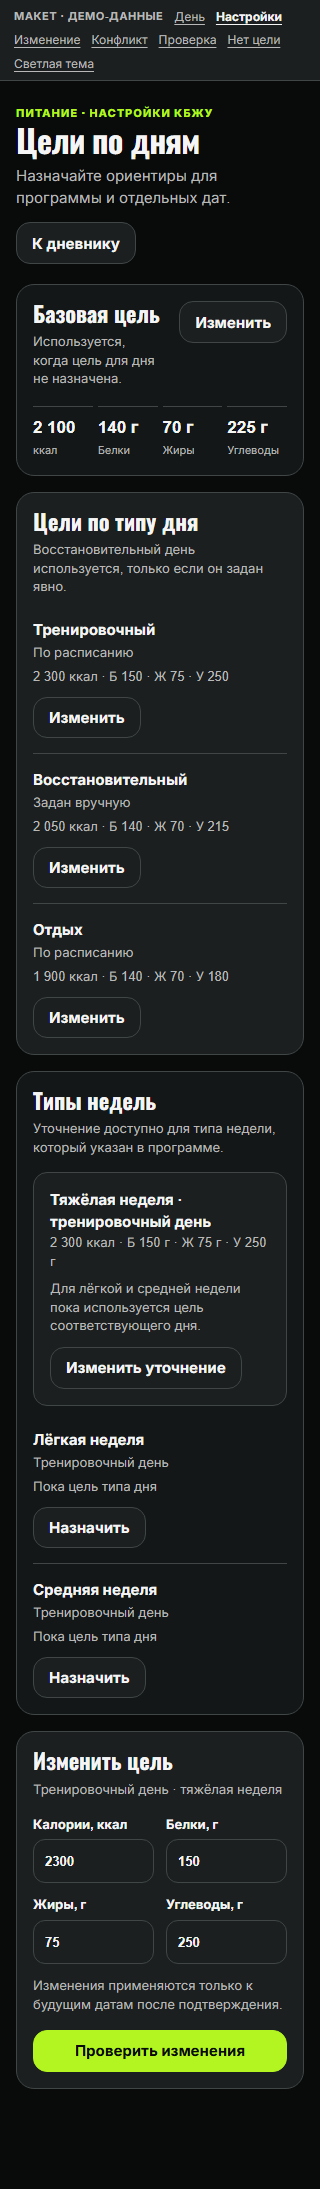
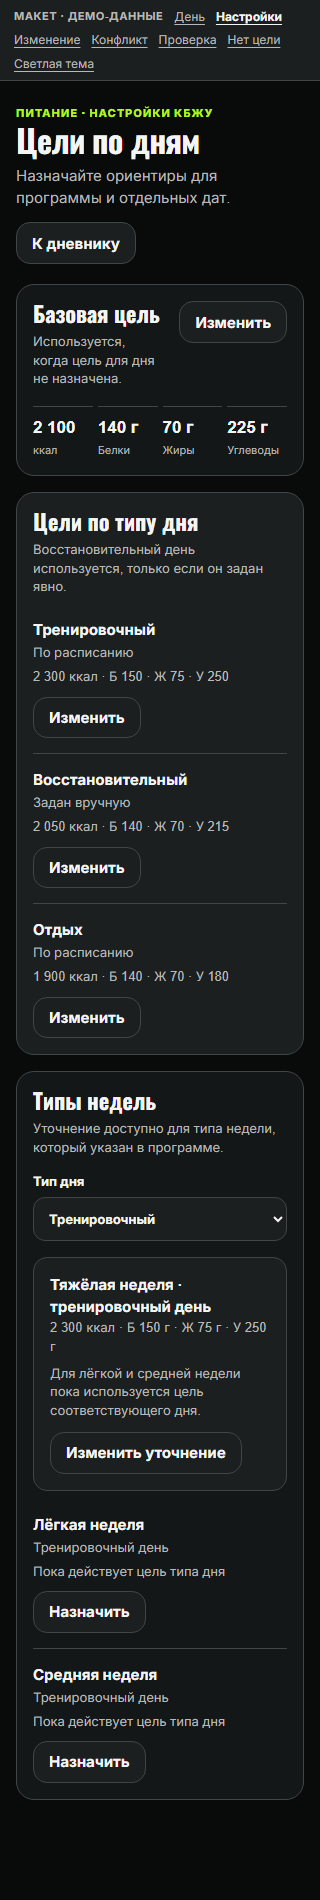
docs: complete day and week target mockup

diff --git a/docs/ux-proposals/issue-952/preview.html b/docs/ux-proposals/issue-952/preview.html
@@ -37,8 +37,8 @@ main{width:min(100%,1000px);padding:38px 44px 80px;margin:0 auto}.eyebrow{font-s
 <div class="stack">
 <div class="panel"><div class="panel-title"><div><h2>Базовая цель</h2><p class="hint">Используется, когда цель для дня не назначена.</p></div><a class="button" href="#editor" data-edit="base">Изменить</a></div><div class="metrics"><div class="metric"><strong>2 100</strong><span>ккал</span></div><div class="metric"><strong>140 г</strong><span>Белки</span></div><div class="metric"><strong>70 г</strong><span>Жиры</span></div><div class="metric"><strong>225 г</strong><span>Углеводы</span></div></div></div>
 <div class="panel white"><div class="panel-title"><div><h2>Цели по типу дня</h2><p class="hint">Восстановительный день используется, только если он задан явно.</p></div></div><div class="target-list"><div class="target-row"><div><strong>Тренировочный</strong><span class="hint">По расписанию</span></div><span class="values">2 300 ккал · Б 150 · Ж 75 · У 250</span><a class="button" href="#editor" data-edit="training">Изменить</a></div><div class="target-row"><div><strong>Восстановительный</strong><span class="hint">Задан вручную</span></div><span class="values">2 050 ккал · Б 140 · Ж 70 · У 215</span><a class="button" href="#editor" data-edit="recovery">Изменить</a></div><div class="target-row"><div><strong>Отдых</strong><span class="hint">По расписанию</span></div><span class="values">1 900 ккал · Б 140 · Ж 70 · У 180</span><a class="button" href="#editor" data-edit="rest">Изменить</a></div></div></div>
-<div class="panel"><div class="panel-title"><div><h2>Типы недель</h2><p class="hint">Уточнение доступно для типа недели, который указан в программе.</p></div></div><div class="details"><strong>Тяжёлая неделя · тренировочный день</strong><p class="hint">2 300 ккал · Б 150 г · Ж 75 г · У 250 г</p><p class="hint" style="margin-top:8px">Для лёгкой и средней недели пока используется цель соответствующего дня.</p><a class="button" href="#editor" data-edit="heavy" style="margin-top:12px">Изменить уточнение</a></div><div class="target-list"><div class="target-row"><div><strong>Лёгкая неделя</strong><span class="hint">Тренировочный день</span></div><span class="values">Пока цель типа дня</span><a class="button" href="#editor" data-edit="light">Назначить</a></div><div class="target-row"><div><strong>Средняя неделя</strong><span class="hint">Тренировочный день</span></div><span class="values">Пока цель типа дня</span><a class="button" href="#editor" data-edit="medium">Назначить</a></div></div></div>
-<div class="panel white" id="editor"><h2>Изменить цель</h2><p class="hint" id="edit-name" style="margin-top:6px">Тренировочный день · тяжёлая неделя</p><div class="form-grid"><label class="field">Калории, ккал<input id="edit-kcal" type="number" min="1" value="2300"></label><label class="field">Белки, г<input id="edit-protein" type="number" min="0" value="150"></label><label class="field">Жиры, г<input id="edit-fat" type="number" min="0" value="75"></label><label class="field">Углеводы, г<input id="edit-carbs" type="number" min="0" value="250"></label></div><p class="hint" style="margin-top:12px">Изменения применяются только к будущим датам после подтверждения.</p><div class="actions" style="margin-top:16px"><a class="button primary" id="edit-preview" href="?view=preview&amp;case=template">Проверить изменения</a></div></div>
+<div class="panel"><div class="panel-title"><div><h2>Типы недель</h2><p class="hint">Уточнение доступно для типа недели, который указан в программе.</p></div></div><label class="field" style="max-width:320px;margin-top:16px">Тип дня<select id="week-day"><option value="training">Тренировочный</option><option value="recovery">Восстановительный</option><option value="rest">Отдых</option></select></label><div class="details"><strong>Тяжёлая неделя · <span class="week-day-label">тренировочный день</span></strong><p class="hint" id="week-heavy-value">2 300 ккал · Б 150 г · Ж 75 г · У 250 г</p><p class="hint" style="margin-top:8px">Для лёгкой и средней недели пока используется цель соответствующего дня.</p><a class="button" href="#editor" data-edit="heavy" style="margin-top:12px">Изменить уточнение</a></div><div class="target-list"><div class="target-row"><div><strong>Лёгкая неделя</strong><span class="hint week-day-label">Тренировочный день</span></div><span class="values">Пока действует цель типа дня</span><a class="button" href="#editor" data-edit="light">Назначить</a></div><div class="target-row"><div><strong>Средняя неделя</strong><span class="hint week-day-label">Тренировочный день</span></div><span class="values">Пока действует цель типа дня</span><a class="button" href="#editor" data-edit="medium">Назначить</a></div></div></div>
+<div class="panel white" id="editor" hidden><h2>Изменить цель</h2><p class="hint" style="margin-top:6px">Редактируется: <span id="edit-name">Тренировочный день · тяжёлая неделя</span></p><div class="form-grid"><label class="field">Калории, ккал<input id="edit-kcal" type="number" min="1" value="2300"></label><label class="field">Белки, г<input id="edit-protein" type="number" min="0" value="150"></label><label class="field">Жиры, г<input id="edit-fat" type="number" min="0" value="75"></label><label class="field">Углеводы, г<input id="edit-carbs" type="number" min="0" value="250"></label></div><p class="hint" style="margin-top:12px">Изменения применяются только к будущим датам после подтверждения.</p><div class="actions" style="margin-top:16px"><a class="button primary" id="edit-preview" href="?view=preview&amp;case=template">Проверить изменения</a><a class="button" href="?view=settings">Отмена</a></div></div>
 </div></section>
 
 <section id="override" class="screen" aria-labelledby="override-title">
@@ -74,7 +74,17 @@ document.querySelectorAll('main a[href^="?view="]').forEach(link => link.href +=
 const themeLink = document.getElementById('theme'); const themeParams = new URLSearchParams(location.search); themeParams.set('theme', theme === 'dark' ? 'light' : 'dark'); themeLink.href = '?' + themeParams; themeLink.textContent = theme === 'dark' ? 'Светлая тема' : 'Тёмная тема';
 const editExamples = {base:['Базовая цель',2100,140,70,225],training:['Тренировочный день',2300,150,75,250],recovery:['Восстановительный день',2050,140,70,215],rest:['День отдыха',1900,140,70,180],heavy:['Тренировочный день · тяжёлая неделя',2300,150,75,250],light:['Тренировочный день · лёгкая неделя',2300,150,75,250],medium:['Тренировочный день · средняя неделя',2300,150,75,250]};
 let editKind = 'heavy';
-document.querySelectorAll('[data-edit]').forEach(link => link.addEventListener('click', () => { editKind = link.dataset.edit; const v = editExamples[editKind]; document.getElementById('edit-name').textContent = v[0]; ['kcal','protein','fat','carbs'].forEach((key,i) => document.getElementById('edit-'+key).value = v[i+1]); }));
+document.getElementById('week-day').addEventListener('change', event => {
+  const dayKey=event.target.value, day=editExamples[dayKey], lowercase=day[0].toLocaleLowerCase('ru-RU');
+  document.querySelectorAll('.week-day-label').forEach(el => el.textContent=lowercase);
+  document.getElementById('week-heavy-value').textContent = dayKey === 'training' ? '2 300 ккал · Б 150 г · Ж 75 г · У 250 г' : 'Пока действует цель типа дня';
+  document.querySelector('[data-edit=heavy]').textContent = dayKey === 'training' ? 'Изменить уточнение' : 'Назначить';
+  for (const [key, week] of [['heavy','тяжёлая'],['light','лёгкая'],['medium','средняя']]) editExamples[key]=[day[0]+' · '+week+' неделя',...day.slice(1)];
+});
+if (['training','recovery','rest'].includes(params.get('day'))) { const select=document.getElementById('week-day'); select.value=params.get('day'); select.dispatchEvent(new Event('change')); }
+function openEditor(kind) { editKind=kind; const v=editExamples[kind]; document.getElementById('editor').hidden=false; document.getElementById('edit-name').textContent=v[0]; ['kcal','protein','fat','carbs'].forEach((key,i) => document.getElementById('edit-'+key).value=v[i+1]); }
+document.querySelectorAll('[data-edit]').forEach(link => link.addEventListener('click', () => openEditor(link.dataset.edit)));
+if (params.get('edit') && Object.hasOwn(editExamples,params.get('edit'))) openEditor(params.get('edit'));
 const sourceValues = {'Тренировочный':['2 300',150,75,250],'Восстановительный':['2 050',140,70,215],'Отдых':['1 900',140,70,180]};
 document.getElementById('override-type').addEventListener('change', event => { const v=sourceValues[event.target.value]; document.getElementById('override-source').textContent = 'Ориентир для типа дня: ' + v[0] + ' ккал · Б ' + v[1] + ' · Ж ' + v[2] + ' · У ' + v[3] + '.'; });
 function values(prefix) { return ['kcal','protein','fat','carbs'].map(key => document.getElementById(prefix+'-'+key).value.replace(/[^0-9]/g,'').slice(0,5)); }

diff --git a/docs/ux-proposals/issue-952/README.md b/docs/ux-proposals/issue-952/README.md
@@ -14,6 +14,10 @@
 | --- | --- | --- | --- | --- |
 | Цель на дату | [полный](evidence/chromium-390x844-dark-day.png) · [экран](evidence/chromium-390x844-dark-day-viewport.png) | [полный](evidence/chromium-390x844-light-day.png) · [экран](evidence/chromium-390x844-light-day-viewport.png) | [1280×900](evidence/chromium-1280x900-dark-day.png) | [1280×900](evidence/chromium-1280x900-light-day.png) |
 | Базовая цель, типы дней и недель | [полный](evidence/chromium-390x844-dark-settings.png) · [экран](evidence/chromium-390x844-dark-settings-viewport.png) | [полный](evidence/chromium-390x844-light-settings.png) · [экран](evidence/chromium-390x844-light-settings-viewport.png) | [1280×900](evidence/chromium-1280x900-dark-settings.png) | [1280×900](evidence/chromium-1280x900-light-settings.png) |
+| Тип недели: восстановительный день | [полный](evidence/chromium-390x844-dark-settings-recovery.png) · [экран](evidence/chromium-390x844-dark-settings-recovery-viewport.png) | [полный](evidence/chromium-390x844-light-settings-recovery.png) · [экран](evidence/chromium-390x844-light-settings-recovery-viewport.png) | [1280×900](evidence/chromium-1280x900-dark-settings-recovery.png) | [1280×900](evidence/chromium-1280x900-light-settings-recovery.png) |
+| Тип недели: день отдыха | [полный](evidence/chromium-390x844-dark-settings-rest.png) · [экран](evidence/chromium-390x844-dark-settings-rest-viewport.png) | [полный](evidence/chromium-390x844-light-settings-rest.png) · [экран](evidence/chromium-390x844-light-settings-rest-viewport.png) | [1280×900](evidence/chromium-1280x900-dark-settings-rest.png) | [1280×900](evidence/chromium-1280x900-light-settings-rest.png) |
+| Редактирование цели недели | [полный](evidence/chromium-390x844-dark-settings-edit.png) · [экран](evidence/chromium-390x844-dark-settings-edit-viewport.png) | [полный](evidence/chromium-390x844-light-settings-edit.png) · [экран](evidence/chromium-390x844-light-settings-edit-viewport.png) | [1280×900](evidence/chromium-1280x900-dark-settings-edit.png) | [1280×900](evidence/chromium-1280x900-light-settings-edit.png) |
+| Редактирование восстановительного дня | [полный](evidence/chromium-390x844-dark-settings-recovery-edit.png) · [экран](evidence/chromium-390x844-dark-settings-recovery-edit-viewport.png) | [полный](evidence/chromium-390x844-light-settings-recovery-edit.png) · [экран](evidence/chromium-390x844-light-settings-recovery-edit-viewport.png) | [1280×900](evidence/chromium-1280x900-dark-settings-recovery-edit.png) | [1280×900](evidence/chromium-1280x900-light-settings-recovery-edit.png) |
 | Ручное изменение и область действия | [полный](evidence/chromium-390x844-dark-override.png) · [экран](evidence/chromium-390x844-dark-override-viewport.png) | [полный](evidence/chromium-390x844-light-override.png) · [экран](evidence/chromium-390x844-light-override-viewport.png) | [1280×900](evidence/chromium-1280x900-dark-override.png) | [1280×900](evidence/chromium-1280x900-light-override.png) |
 | Подтверждение одной даты | [полный](evidence/chromium-390x844-dark-single.png) · [экран](evidence/chromium-390x844-dark-single-viewport.png) | [полный](evidence/chromium-390x844-light-single.png) · [экран](evidence/chromium-390x844-light-single-viewport.png) | [1280×900](evidence/chromium-1280x900-dark-single.png) | [1280×900](evidence/chromium-1280x900-light-single.png) |
 | Подтверждение будущих повторений | [полный](evidence/chromium-390x844-dark-future.png) · [экран](evidence/chromium-390x844-dark-future-viewport.png) | [полный](evidence/chromium-390x844-light-future.png) · [экран](evidence/chromium-390x844-light-future-viewport.png) | [1280×900](evidence/chromium-1280x900-dark-future.png) | [1280×900](evidence/chromium-1280x900-light-future.png) |
